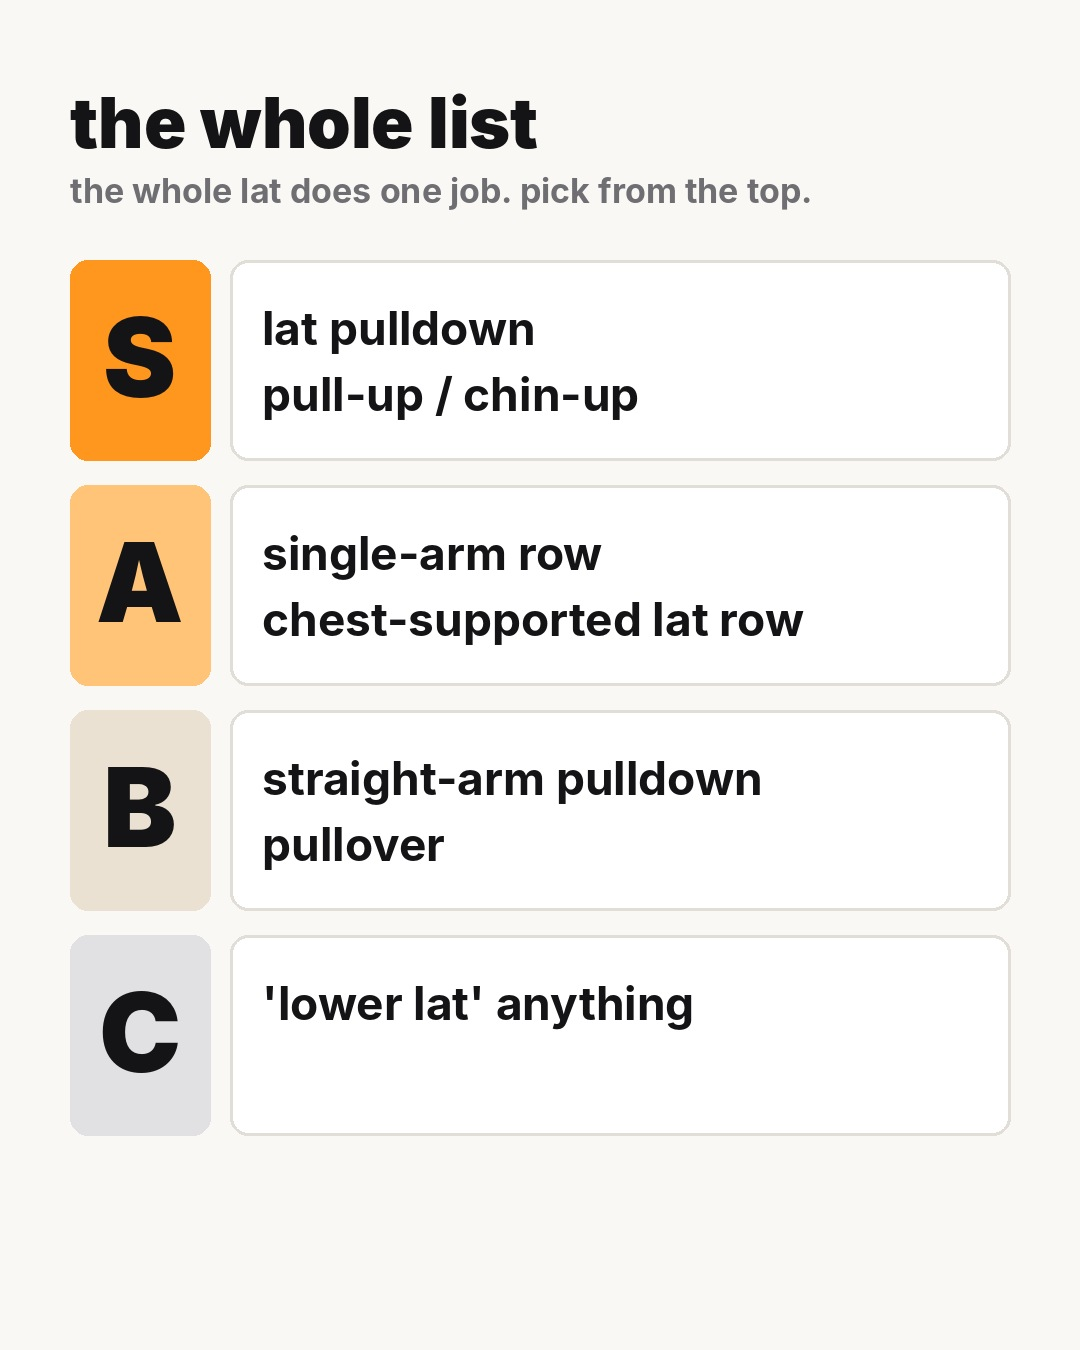
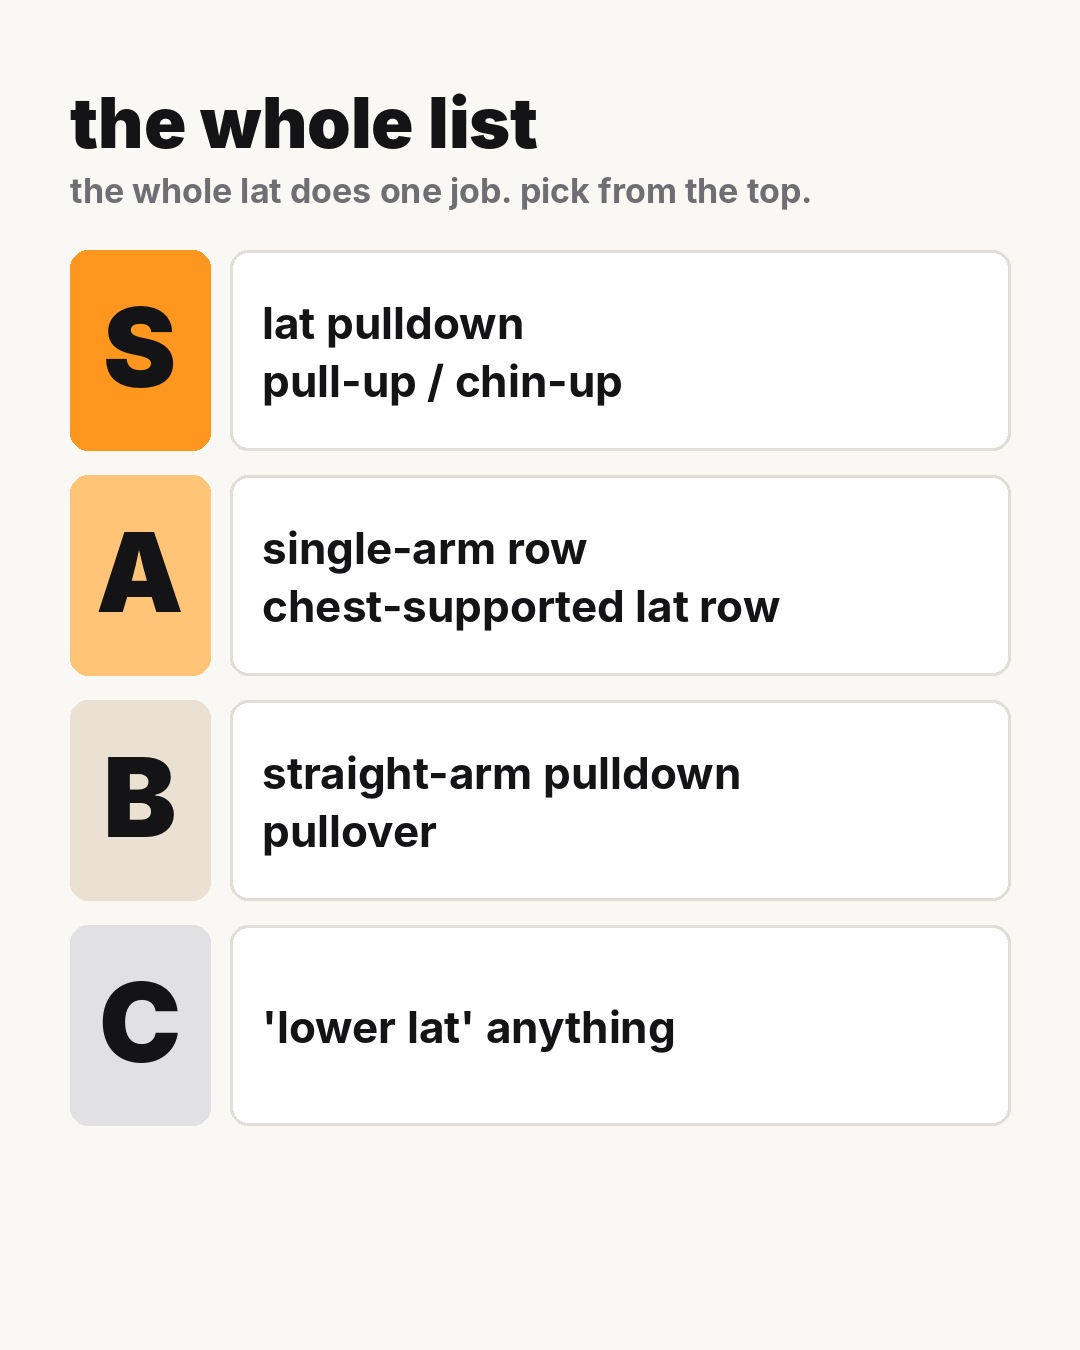
Earnie tier list: no glow, amber works: tag, tier_render.py
Claude-Session: https://claude.ai/code/session_01Ws8S991F2EukoMgPY9duxg

diff --git a/.claude/skills/slideshow-engine/scripts/tier_render.py b/.claude/skills/slideshow-engine/scripts/tier_render.py
@@ -1,0 +1,85 @@
+#!/usr/bin/env python3
+"""@earnie.lifts bluebro-style tier-list slideshow (white, gritty anime Earnie, no muscle glow; an amber `works:` tag instead).
+
+  python3 tier_render.py <set_dir>     # reads <set_dir>/tier.json -> final/preview/slide-NN.jpg (1080x1350)
+
+tier.json slides:
+  {"type": "cover", "title": ["every lat exercise,", "ranked."], "sub": "argue with me.", "pose": "cover-arms-crossed"}
+  {"type": "list", "title": "the whole list", "sub": "...", "rows": [["S", ["lat pulldown", "pull-up"]], ...]}
+  {"type": "tier", "tier": "S", "name": "lat pulldown", "works": "lats", "lines": ["...", "..."], "pose": "pulldown", "footer": "optional"}
+Poses: 01-app/brand/earnie-v3/<pose>.png
+"""
+import json, os, sys
+import numpy as np
+from PIL import Image, ImageDraw, ImageFont
+ROOT = os.path.abspath(os.path.join(os.path.dirname(__file__), "..", "..", "..", ".."))
+W, H = 1080, 1350; AMB = (255, 150, 30); INK = (20, 20, 22)
+BL = "/usr/share/fonts/opentype/inter/Inter-Black.otf"; BO = "/usr/share/fonts/opentype/inter/Inter-Bold.otf"
+TC = {'S': (255, 150, 30), 'A': (255, 196, 120), 'B': (235, 225, 210), 'C': (225, 225, 228), 'D': (215, 215, 218), 'F': (205, 205, 208)}
+F = ImageFont.truetype
+
+
+def pose(n): return Image.open(os.path.join(ROOT, "01-app", "brand", "earnie-v3", f"{n}.png")).convert("RGB")
+
+
+def bgcol(im):
+    a = np.asarray(im); c = np.concatenate([a[:8].reshape(-1, 3), a[-8:].reshape(-1, 3), a[:, :8].reshape(-1, 3)])
+    return tuple(int(v) for v in np.median(c, axis=0))
+
+
+def place(s, im, top, bot):
+    im = im.copy(); im.thumbnail((W - 100, bot - top)); s.paste(im, ((W - im.width) // 2, bot - im.height))
+
+
+def foot(s, d, t):
+    f = F(BO, 34); d.text(((W - d.textlength(t, font=f)) / 2, H - 80), t, font=f, fill=(110, 110, 115))
+
+
+def render(set_dir):
+    sp = json.load(open(os.path.join(set_dir, "tier.json")))
+    out = os.path.join(set_dir, "final", "preview"); os.makedirs(out, exist_ok=True)
+    for f_ in os.listdir(out): os.remove(os.path.join(out, f_))
+    pages = []
+    for n, s in enumerate(sp["slides"], 1):
+        t = s["type"]
+        if t == "cover":
+            im = pose(s["pose"]); img = Image.new("RGB", (W, H), bgcol(im)); d = ImageDraw.Draw(img); y = 80
+            for i, ln in enumerate(s["title"]):
+                f = F(BL, 88); tw = d.textlength(ln, font=f)
+                if i == len(s["title"]) - 1: d.rounded_rectangle([(W - tw) / 2 - 14, y + 10, (W + tw) / 2 + 14, y + 104], 14, fill=AMB)
+                d.text(((W - tw) / 2, y), ln, font=f, fill=INK); y += 106
+            if s.get("sub"): f = F(BO, 40); d.text(((W - d.textlength(s["sub"], font=f)) / 2, y + 8), s["sub"], font=f, fill=(100, 100, 105)); y += 60
+            place(img, im, y + 20, H - 20)
+        elif t == "list":
+            img = Image.new("RGB", (W, H), (250, 248, 244)); d = ImageDraw.Draw(img)
+            d.text((70, 80), s["title"], font=F(BL, 70), fill=INK)
+            if s.get("sub"): d.text((70, 170), s["sub"], font=F(BO, 34), fill=(110, 110, 115))
+            rows = s["rows"]; rh = min(200, (H - 300) // len(rows) - 25); y = 250
+            for tr, items in rows:
+                d.rounded_rectangle([70, y, 210, y + rh], 18, fill=TC[tr]); fl = F(BL, int(rh * 0.55)); d.text((140 - d.textlength(tr, font=fl) / 2, y + rh * 0.15), tr, font=fl, fill=INK)
+                d.rounded_rectangle([230, y, W - 70, y + rh], 18, fill="white", outline=(225, 222, 215), width=3)
+                fi = F(BO, 44); gap = 58; y0 = y + (rh - gap * len(items)) / 2 + 4
+                for k, it in enumerate(items): d.text((262, y0 + k * gap), it, font=fi, fill=INK)
+                y += rh + 25
+            if s.get("footer"): foot(img, d, s["footer"])
+        elif t == "tier":
+            im = pose(s["pose"]); img = Image.new("RGB", (W, H), bgcol(im)); d = ImageDraw.Draw(img); y = 80
+            d.rounded_rectangle([70, y, 190, y + 120], 18, fill=TC[s["tier"]]); f = F(BL, 90); d.text((130 - d.textlength(s["tier"], font=f) / 2, y + 5), s["tier"], font=f, fill=INK)
+            fn = F(BL, 62)
+            while d.textlength(s["name"], font=fn) > W - 300: fn = F(BL, fn.size - 4)
+            d.text((220, y + 24), s["name"], font=fn, fill=INK); y += 145
+            if s.get("works"):
+                tag = "works: " + s["works"]; ft = F(BL, 32); tw = d.textlength(tag, font=ft)
+                d.rounded_rectangle([70, y, 70 + tw + 36, y + 52], 26, fill=AMB); d.text((88, y + 7), tag, font=ft, fill=INK); y += 75
+            for ln in s.get("lines", []): d.text((70, y), ln, font=F(BO, 40), fill=(90, 90, 95)); y += 56
+            bot = H - (110 if s.get("footer") else 30); place(img, im, y + 20, bot)
+            if s.get("footer"): foot(img, d, s["footer"])
+        img.save(os.path.join(out, f"slide-{n:02d}.jpg"), quality=93); pages.append(img)
+    sh = Image.new("RGB", (len(pages) * 310, 400), (230, 230, 230))
+    for i, p in enumerate(pages): sh.paste(p.resize((300, 375)), (5 + i * 310, 12))
+    sh.save(os.path.join(set_dir, "final", "contact-sheet.jpg"), quality=90)
+    print(f"rendered {len(pages)} slides -> {set_dir}/final")
+
+
+if __name__ == "__main__":
+    render(sys.argv[1])
